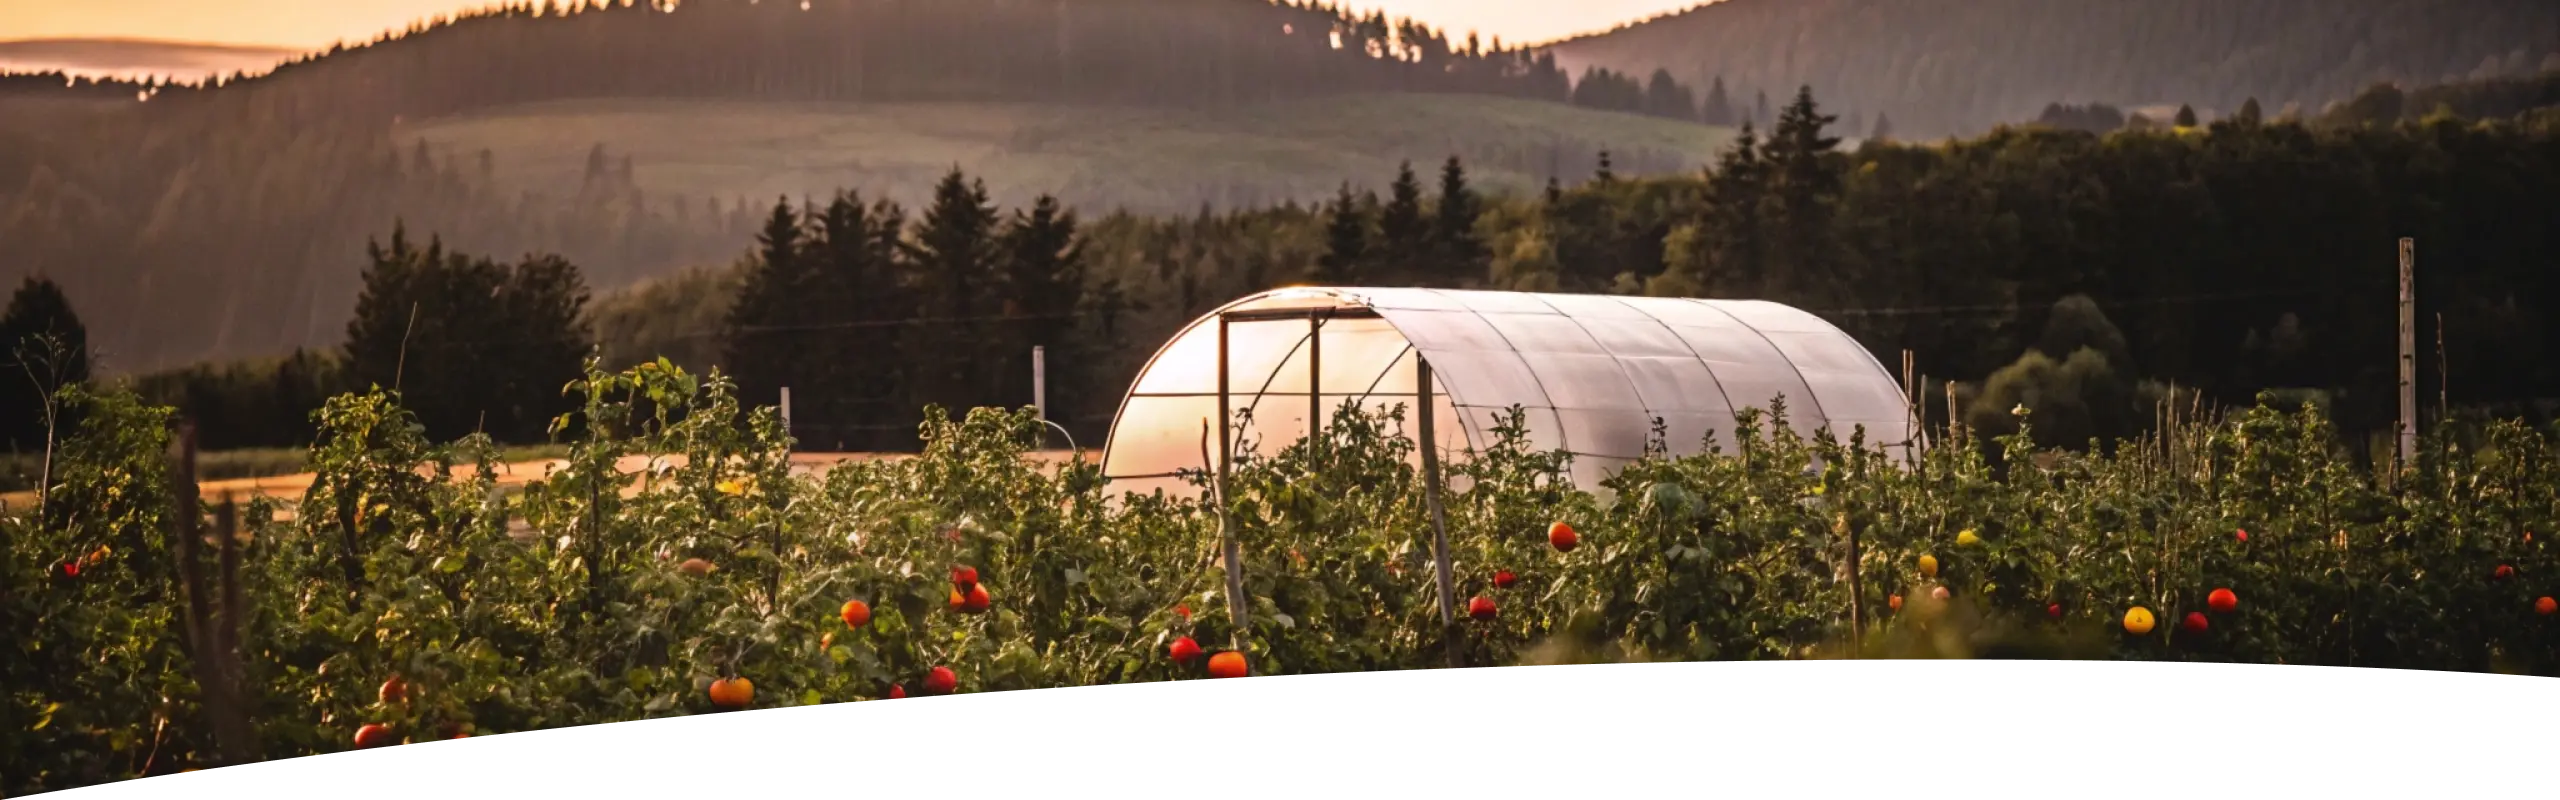
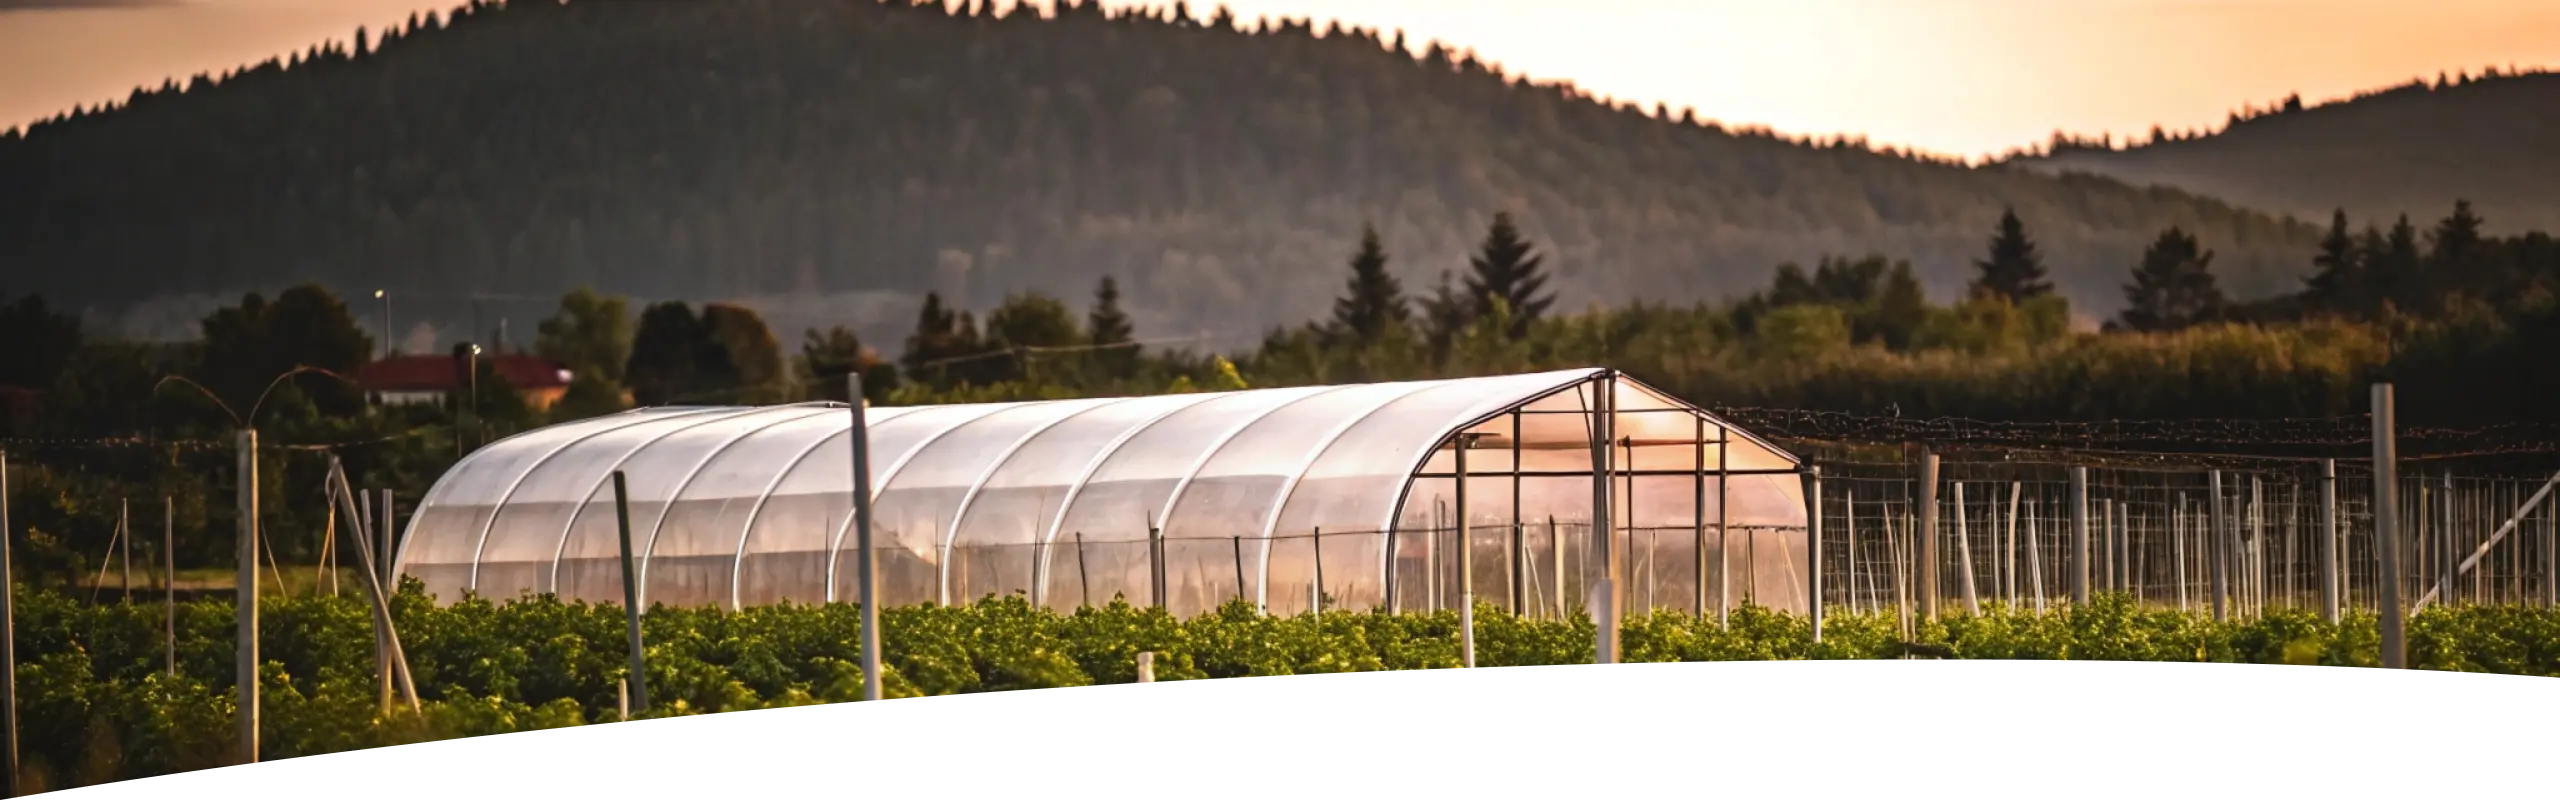
Update images in the hero sections (#78)
* updated home page hero image

* updated about page hero section images

* updated home page hero section texts

* update about page hero image for desktop

* updated home page hero section texts

diff --git a/src/components/home/hero/HeroBgImages.tsx b/src/components/home/hero/HeroBgImages.tsx
@@ -19,7 +19,7 @@ export default function HeroBgImages({ sectionId }: HeroBgImagesProps) {
         width={2048}
         height={1024}
         priority
-        className={`absolute top-0 left-0 -z-20 w-full h-full object-cover object-22%-center tab:origin-center ${
+        className={`absolute top-0 left-0 -z-20 w-full h-full object-cover origin-center ${
           isVisible
             ? "scale-100 translate-x-0 translate-y-0"
             : "scale-[115%] -translate-x-[30px] translate-y-[15px] tab:-translate-x-[60px] tab:translate-y-[30px]"
